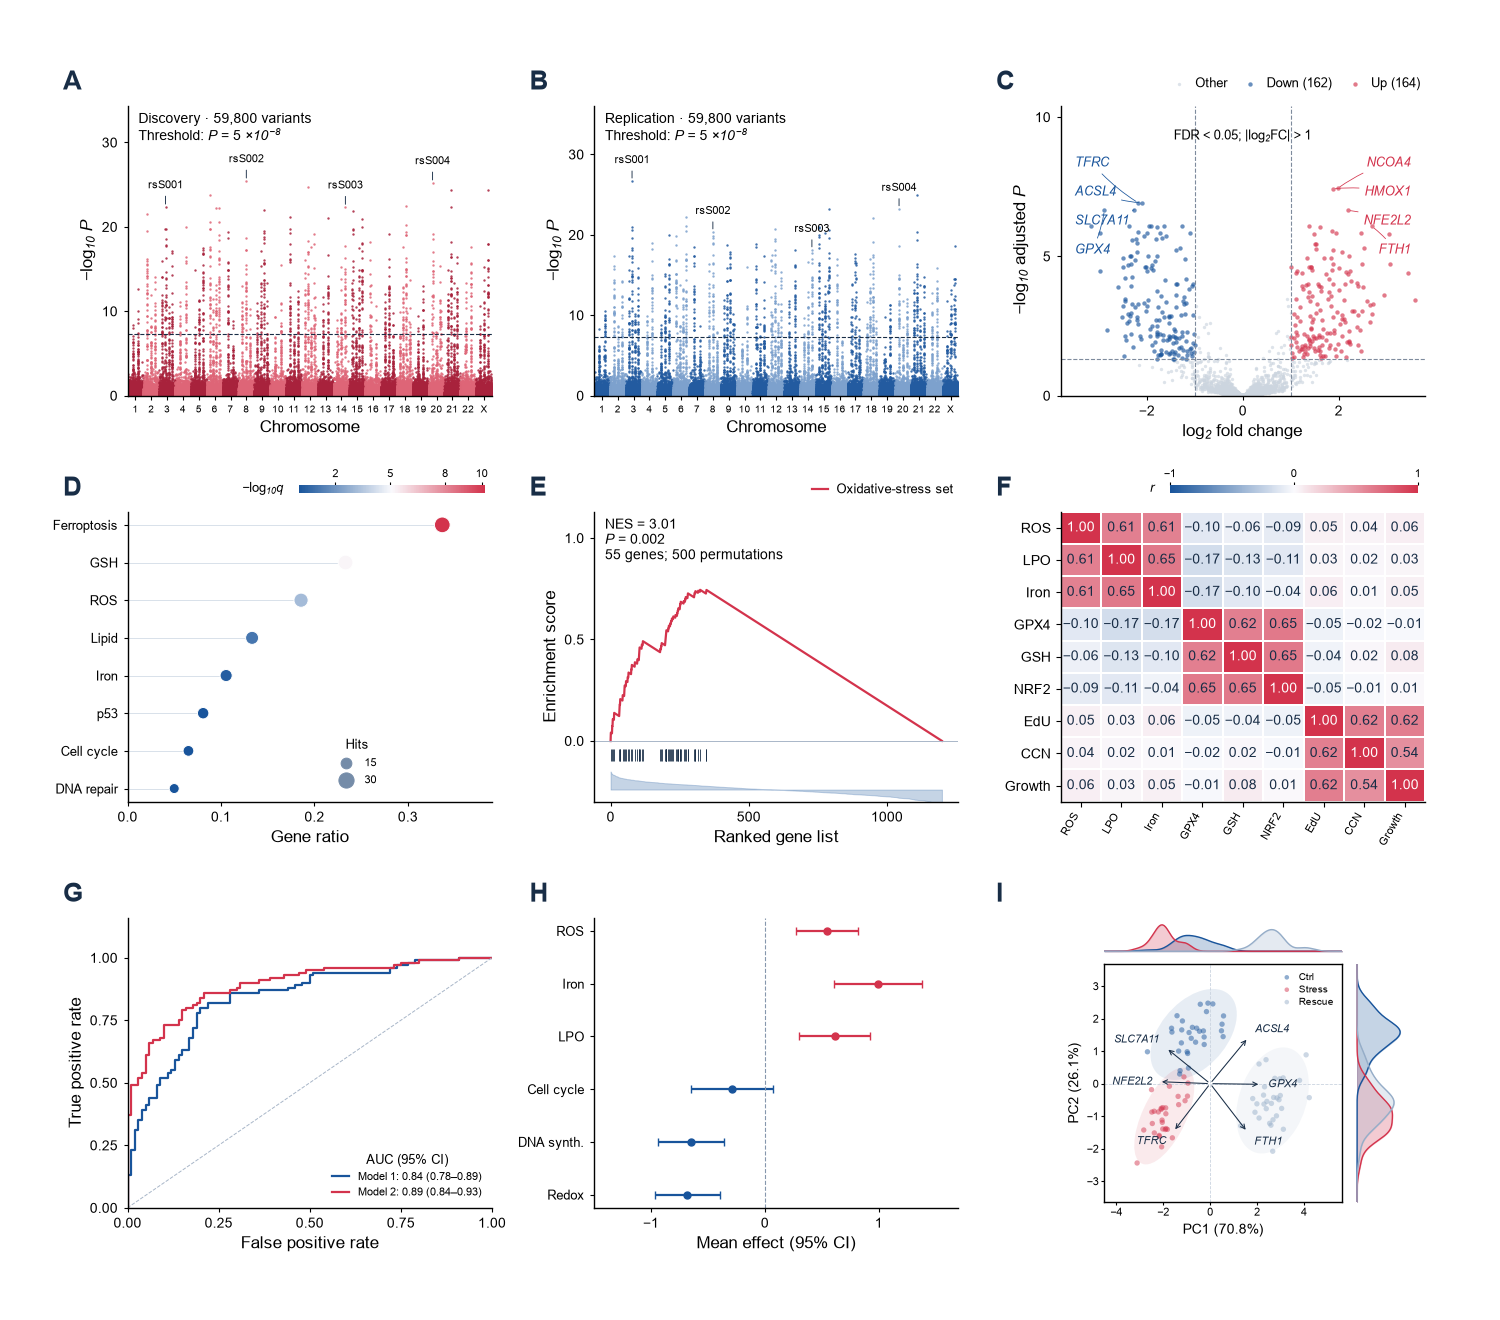
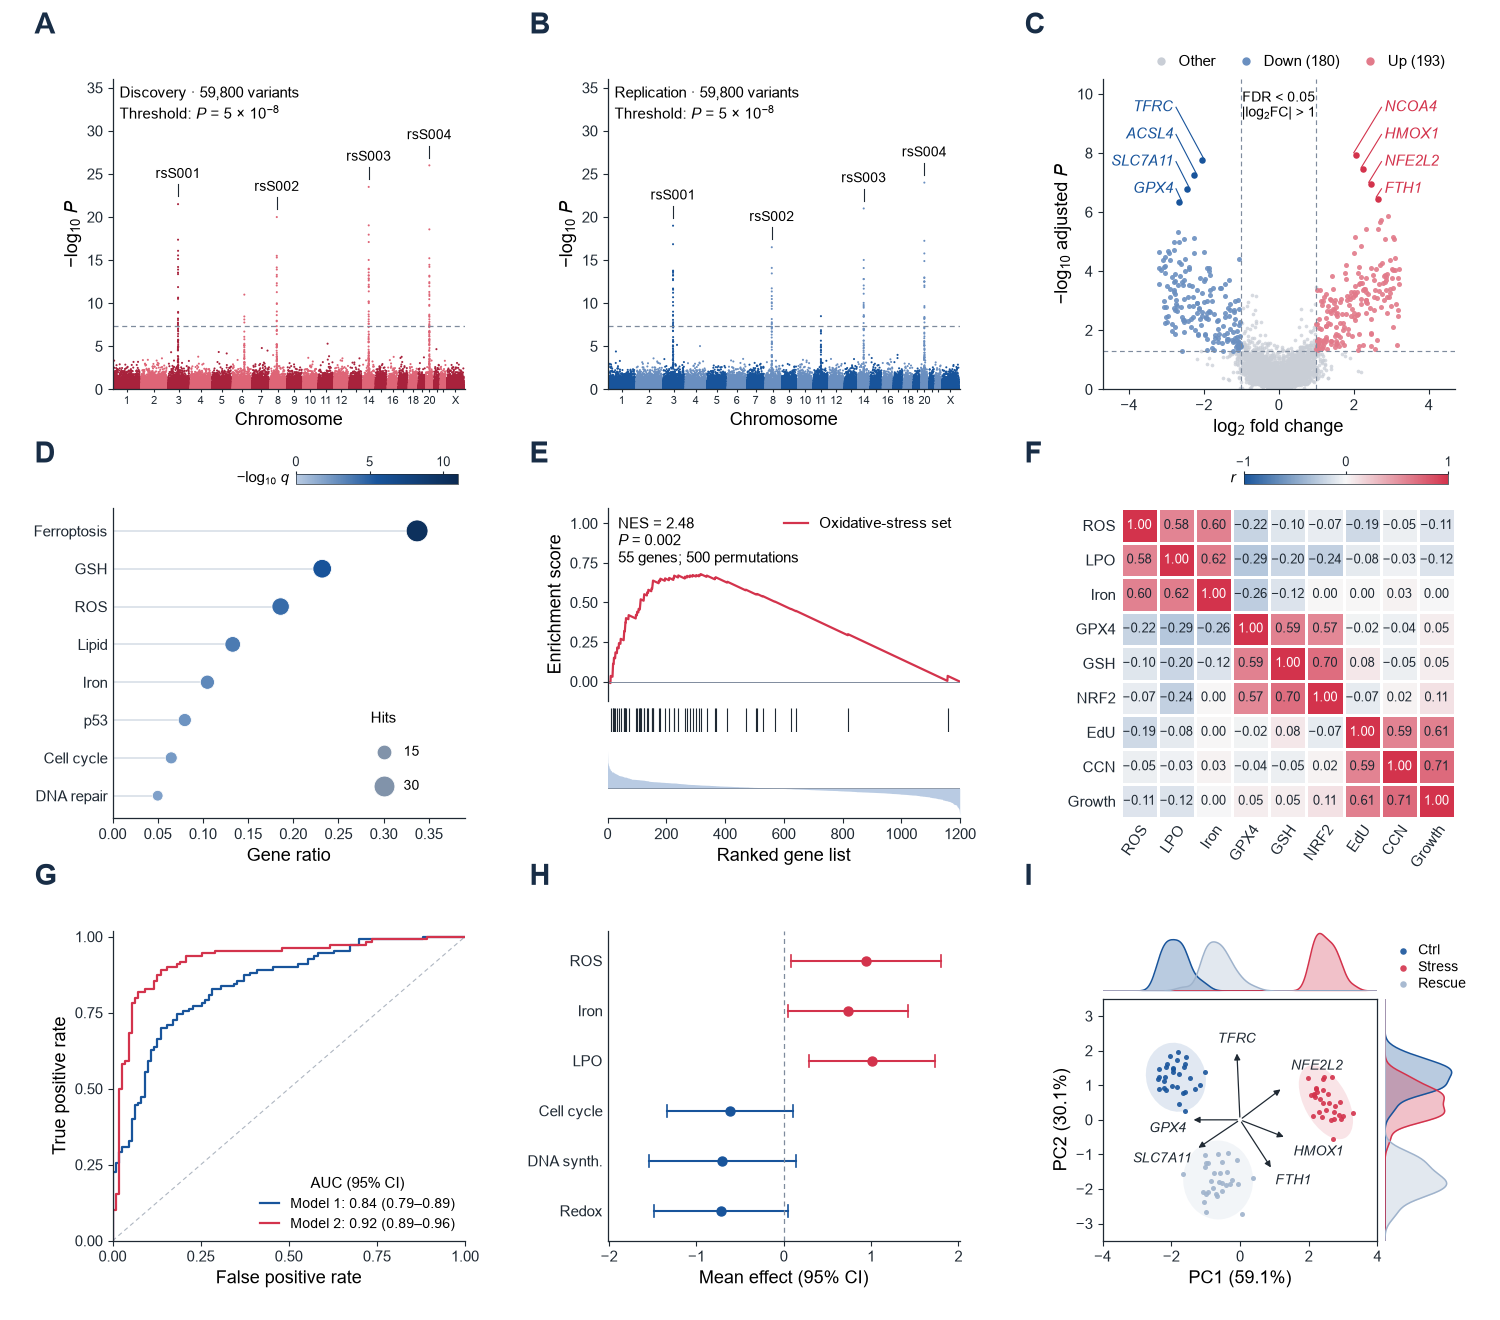
Render the nine-panel README showcase with Arial

diff --git a/demo/composite_showcase/make_figure_1.py b/demo/composite_showcase/make_figure_1.py
@@ -1,8 +1,8 @@
 """Rebuild the synthetic bioinformatics showcase (Figure_1_Bioinformatics.png).
 
-All values are generated here from fixed seeds; every displayed statistic
-(classification counts, NES and permutation P, AUC and bootstrap CI, effect
-intervals, correlations, PCA variance) is computed from those synthetic data.
+The example uses seeded synthetic data. Panel D plots a fixed illustrative
+enrichment table. Counts, NES and permutation P, AUC and bootstrap intervals,
+effect intervals, correlations and PCA variance are computed from the inputs.
 
 Usage (from the repository root):
     python demo/composite_showcase/make_figure_1.py
@@ -151,7 +151,7 @@ def draw_manhattan(fig, col, row, letter, rng, peaks, shades, cohort):
         top = logp[lead]
         ax.plot([x[lead], x[lead]], [top + 0.9, top + 2.3], color=INK, lw=0.8)
         ax.text(x[lead], top + 2.7, name, ha="center", va="bottom", fontsize=10)
-    ax.text(0.02, 0.985, f"{cohort} · 59,800 variants\nThreshold: $\\mathit{{P}}$ = 5 × 10$^{{-8}}$",
+    ax.text(0.02, 0.985, f"{cohort} · {len(logp):,} variants\nThreshold: $\\mathit{{P}}$ = 5 × 10$^{{-8}}$",
             transform=ax.transAxes, ha="left", va="top", fontsize=11, linespacing=1.35)
     ax.set_xlim(-10, end)
     ax.set_ylim(0, 36)
@@ -201,7 +201,7 @@ def draw_volcano(fig, rng):
             ax.plot([sign * (LABEL_COLUMN - 0.08), gx - sign * 0.05], [label_y, gy + 0.06], color=colour, lw=0.8, zorder=3)
             ax.text(sign * LABEL_COLUMN, label_y, gene, ha=ha, va="center", fontsize=10.5,
                     style="italic", color=colour, zorder=5)
-    ax.set_xlim(-4.35, 4.35)
+    ax.set_xlim(-4.7, 4.7)
     ax.set_ylim(0, 10.5)
     ax.set_xlabel("log$_2$ fold change")
     ax.set_ylabel("$-$log$_{10}$ adjusted $\\mathit{P}$")
@@ -325,7 +325,7 @@ def draw_correlation(fig, rng):
             value = r[i, j]
             text = f"{value:.2f}".replace("-", "−") if round(value, 2) != 0 else "0.00"
             ax.text(j, i, text, ha="center", va="center", fontsize=9.6,
-                    color="white" if abs(value) > 0.55 else INK)
+                    color="white" if abs(value) > 0.85 else INK)
     ax.set_xlim(-0.5, 8.5)
     ax.set_ylim(8.5, -0.5)
     ax.set_xticks(range(9))
@@ -597,7 +597,7 @@ def main(argv=None) -> int:
         print(f"Preview only: rendering with {font!r} instead of {args.font!r}.", file=sys.stderr)
     out = args.out or DEFAULT_OUT
     fig = build_figure(font)
-    fig.savefig(out, dpi=DPI, facecolor="white", metadata={"Software": None})
+    fig.savefig(out, dpi=DPI, facecolor="white", metadata={"Author": "a", "Software": None})
     plt.close(fig)
     print(out)
     return 0

diff --git a/CHANGELOG.md b/CHANGELOG.md
@@ -3,7 +3,7 @@
 ## Unreleased
 
 - Accept Python 3.13 and 3.14 in `doctor` and the Skill runtime checks (supported range 3.10–3.14); CI adds Python 3.14 on Windows, macOS and Ubuntu.
-- Add `demo/composite_showcase/make_figure_1.py`, a reproducible generator for the bioinformatics showcase. It keeps volcano labels and leaders clear of guide lines, points and each other, uses a sequential scale for −log₁₀ *q*, sets 5 × 10⁻⁸ upright and computes every displayed statistic from its synthetic data.
+- Add `demo/composite_showcase/make_figure_1.py`, a reproducible generator for the bioinformatics showcase. It keeps volcano labels and leaders clear of guide lines, points and each other, uses a sequential scale for −log₁₀ *q*, sets 5 × 10⁻⁸ upright and computes counts, correlations and model summaries from synthetic inputs. Panel D uses a fixed illustrative enrichment table.
 
 ## v1.6.2 — Figure Studio 0.2.3
 
